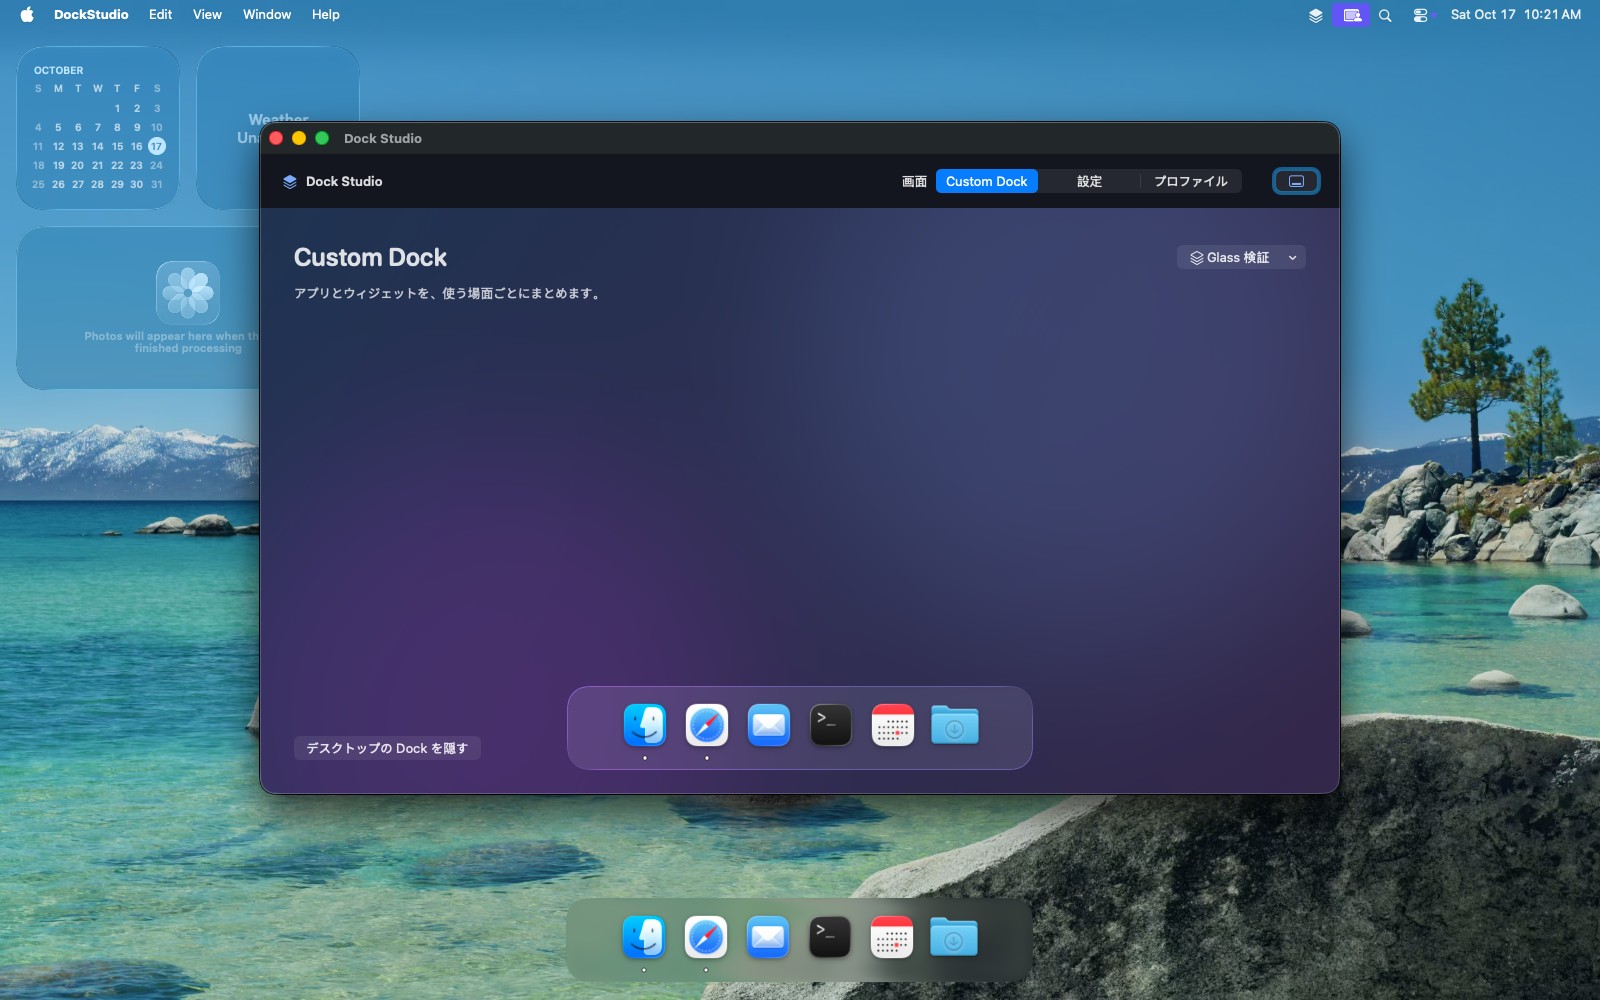
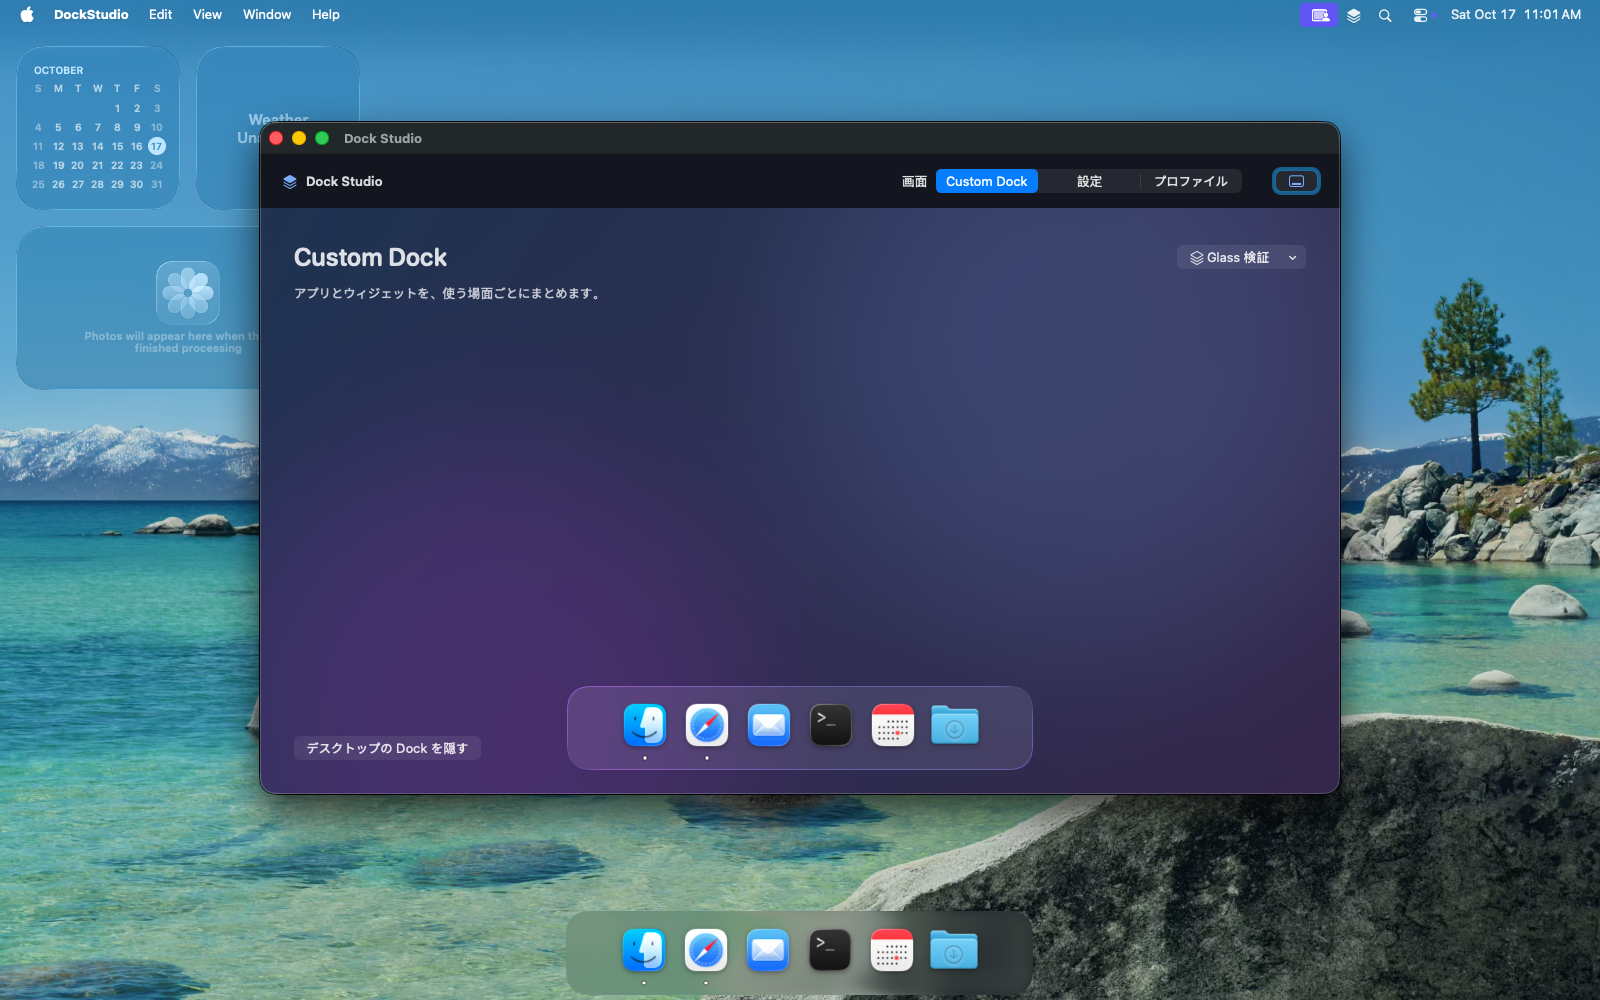
improve: refresh PR screenshots after the Dock position correction

Changed region(s): [[0.3438, 0.899, 0.6562, 1.0], [0.8125, 0.0, 0.875, 0.031]]

diff --git a/docs/DOCK_POSITION_FIX.md b/docs/DOCK_POSITION_FIX.md
@@ -26,6 +26,8 @@ macOS 26.6.2 の VM 内で標準 Dock と比較し、背景の下端を物理画
 
 修正前、標準 Dock、修正後のスクリーンショットと、約15秒の操作動画を、[画面の記録](media/dock-position/)に保存した。動画は撮影時刻の間隔を維持して15 fpsに変換した。実機の描画性能を測ったものではない。
 
+修正後の画像と標準 Dock の参照画像は、4f540a2のビルドで撮り直した。管理画面と設定画面の画像も、同じ修正後のビルドにそろえた。
+
 ## レビューへの対応
 
 今回の修正について、Sonnet のコードレビューを1回実施した。判定は APPROVED で、横幅の上限の基準をそろえる指摘が1件あった。実行時の懸念を含め、以下のように対応した。修正後の再レビューは行っていない。
